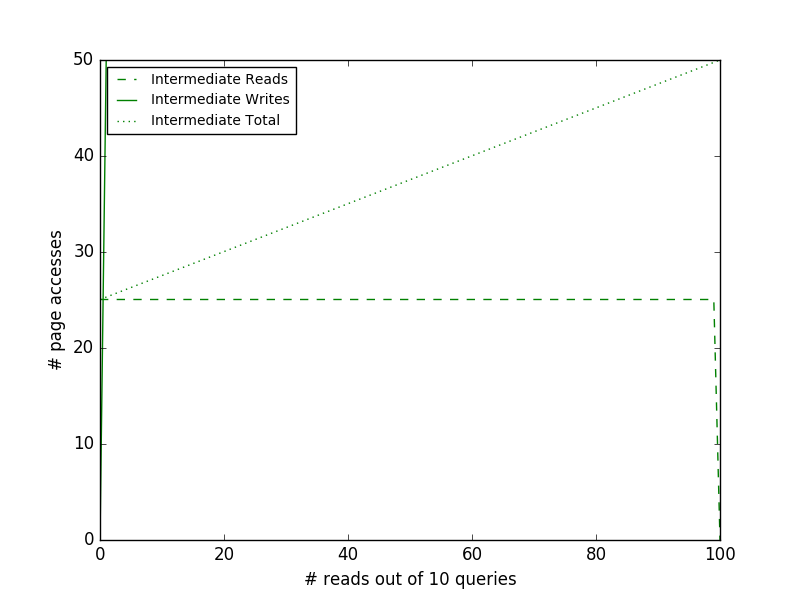
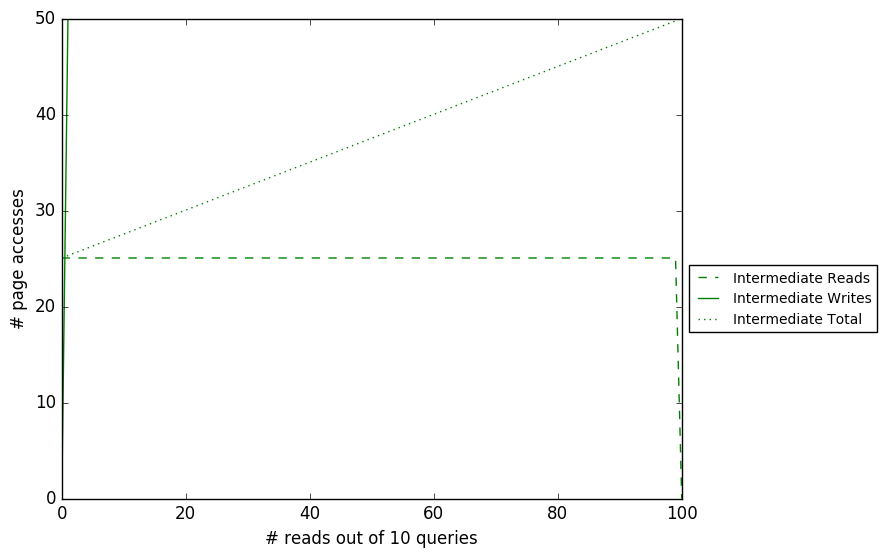
moved legends

Changed region(s): [[0.0, 0.0, 1.0, 0.9767]]

diff --git a/models/worst_case.py b/models/worst_case.py
@@ -298,10 +298,12 @@ def worst_case_model(fig_offset):
             line = plt.plot(x, cost, linestyles[i][j], label=labels[i][j])
             lines.append(line[0])
 
-        plt.legend(lines, labels[i], loc=legend_locs[i], prop={'size':10})
+        lgd = plt.legend(lines, labels[i], loc=legend_locs[i],
+                bbox_to_anchor=(1, 0.5), prop={'size':10})
         plt.ylabel('# page accesses')
         plt.xlabel('# reads out of 10 queries')
-        plt.savefig('worst_case_' + titles[i] + '.png')
+        plt.savefig('worst_case_' + titles[i] + '.png', bbox_extra_artists=(lgd,),
+                bbox_inches='tight')
 
 # Single read/write
 def single_model(fig_offset):
